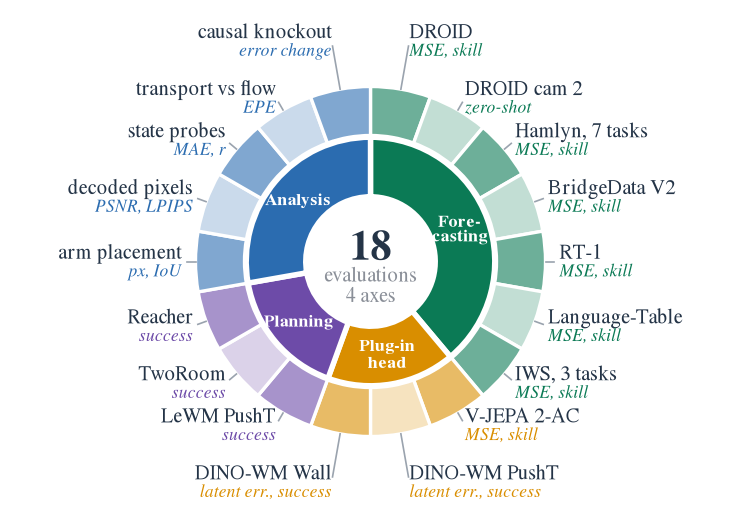
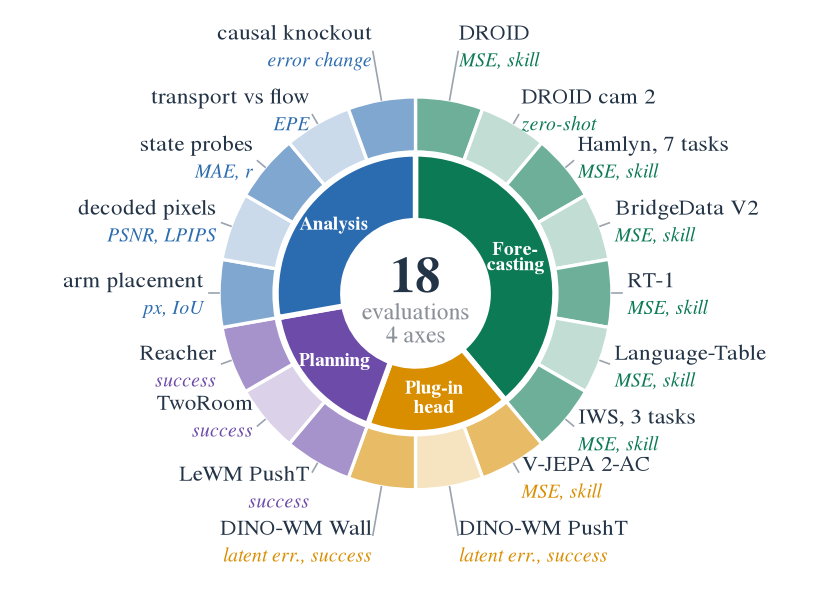
Evaluation wheel in Appendix C.1: redrawn at print size (legible labels, no collisions), side by side with the C.1 text; caption no longer collides with Table 5

diff --git a/paper/submission_folder/figures/src/make_benchmarks.py b/paper/submission_folder/figures/src/make_benchmarks.py
@@ -24,7 +24,7 @@ AXES = [
 
 
 def main():
-    fig, ax = plt.subplots(figsize=(2.45, 1.75))
+    fig, ax = plt.subplots(figsize=(2.75, 2.05))
     ax.set_aspect("equal"); ax.axis("off")
     outer_v, outer_c, labels, inner_v, inner_c = [], [], [], [], []
     for name, col, items in AXES:
@@ -39,20 +39,21 @@ def main():
                    wedgeprops=dict(width=0.34, edgecolor="white", linewidth=1.3))
     for w_, (name, col, _) in zip(wi, AXES):
         a = np.deg2rad((w_.theta1 + w_.theta2) / 2)
-        ax.text(0.54 * np.cos(a), 0.54 * np.sin(a), name, ha="center", va="center", fontsize=4.2, color="white",
+        ax.text(0.54 * np.cos(a), 0.54 * np.sin(a), name, ha="center", va="center", fontsize=4.6, color="white",
                 fontweight="bold", linespacing=0.9)
     pole_count = {1: 0, -1: 0}                                                         # alternate radii near each pole
     for w_, ((n, m), col) in zip(wo, labels):
         r = np.deg2rad((w_.theta1 + w_.theta2) / 2); c_, s_ = np.cos(r), np.sin(r)
-        stag = {"DROID": 0.2, "DROID cam 2": 0.0, "causal knockout": 0.2, "DINO-WM PushT": 0.2, "DINO-WM Wall": 0.2}.get(n, 0.0)
+        stag = {"DROID": 0.2, "DROID cam 2": 0.0, "causal knockout": 0.2, "DINO-WM PushT": 0.2, "DINO-WM Wall": 0.2, "TwoRoom": 0.0, "Reacher": 0.0, "LeWM PushT": 0.0}.get(n, 0.0)
         rr = 1.08 + stag
+        dy = {"TwoRoom": 0.07, "LeWM PushT": -0.05}.get(n, 0.0)                     # vertical nudges where labels crowd
         ax.plot([1.0 * c_, (rr - 0.03) * c_], [1.0 * s_, (rr - 0.03) * s_], color="#9AA3AE", lw=0.4)
         ha = "left" if c_ >= 0 else "right"
-        ax.text(rr * c_, rr * s_ + 0.045, n, ha=ha, va="center", fontsize=4.9, color=mf.INK)
-        ax.text(rr * c_, rr * s_ - 0.06, m, ha=ha, va="center", fontsize=4.2, color=col, style="italic")
+        ax.text(rr * c_, rr * s_ + dy + 0.06, n, ha=ha, va="center", fontsize=5.4, color=mf.INK)
+        ax.text(rr * c_, rr * s_ + dy - 0.08, m, ha=ha, va="center", fontsize=4.7, color=col, style="italic")
     n_items = sum(len(it) for _, _, it in AXES)
-    ax.text(0, 0.07, f"{n_items}", ha="center", va="center", fontsize=10, fontweight="bold", color=mf.INK)
-    ax.text(0, -0.13, "evaluations\n4 axes", ha="center", va="center", fontsize=4.9, color=mf.MUTED, linespacing=1.0)
+    ax.text(0, 0.07, f"{n_items}", ha="center", va="center", fontsize=12, fontweight="bold", color=mf.INK)
+    ax.text(0, -0.15, "evaluations\n4 axes", ha="center", va="center", fontsize=5.6, color=mf.MUTED, linespacing=1.0)
     ax.set_xlim(-2.1, 2.1); ax.set_ylim(-1.5, 1.48)
     fig.subplots_adjust(0, 0, 1, 1)
     fig.savefig(mf.FIG / "benchmarks.pdf", bbox_inches="tight", pad_inches=0.01)

diff --git a/paper/submission_folder/appendix/appendix.tex b/paper/submission_folder/appendix/appendix.tex
@@ -184,20 +184,22 @@ This section details the setup summarised in \cref{sec:experiments}: tasks, data
 protocol and the statistics.
 \FloatBarrier
 \subsection{Benchmarks and evaluated tasks}\label{app:tasks}
-\begin{wrapfigure}[13]{r}{0.38\linewidth}
-  \vspace{-1.2em}
+\noindent\begin{minipage}[c]{0.47\linewidth}
   \centering
   \includegraphics[width=\linewidth]{benchmarks.pdf}
-  \caption{\textbf{Evaluation wheel:} 18 evaluations across four axes (inner), with their metrics (outer).}
+  \captionof{figure}{\textbf{Evaluation wheel:} 18 evaluations across four axes (inner), with their metrics (outer).}
   \label{fig:benchmarks}
-  \vspace{-1em}
-\end{wrapfigure}
+\end{minipage}\hfill
+\begin{minipage}[c]{0.5\linewidth}
 \Cref{sec:intro} summarises the suite as 18 evaluations across four axes; \cref{fig:benchmarks} shows them with their
 metrics, and \cref{tab:tasks} states, for every benchmark, what the data show and what the world model is asked to do. In all
 forecasting benchmarks the task is the same: given the last $H{=}3$ observed frames (encoded to frozen DINOv2 patch
 grids), the actions between them and the next $K$ action blocks, predict the patch features of the next $K$ frames,
 without seeing them. The benchmarks differ in embodiment, scene and action space. In the planning benchmarks the world
 model is used inside a planner, and the task is to reach a goal image.
+\end{minipage}
+\vspace{0.6em}
+
 \begin{table}[h]
 \centering\scriptsize\setlength{\tabcolsep}{3pt}
 \caption{\textbf{Benchmarks and evaluated tasks.} Forecast: predict $K$ future feature grids from $H{=}3$ observed frames and $K$ future action blocks.}
